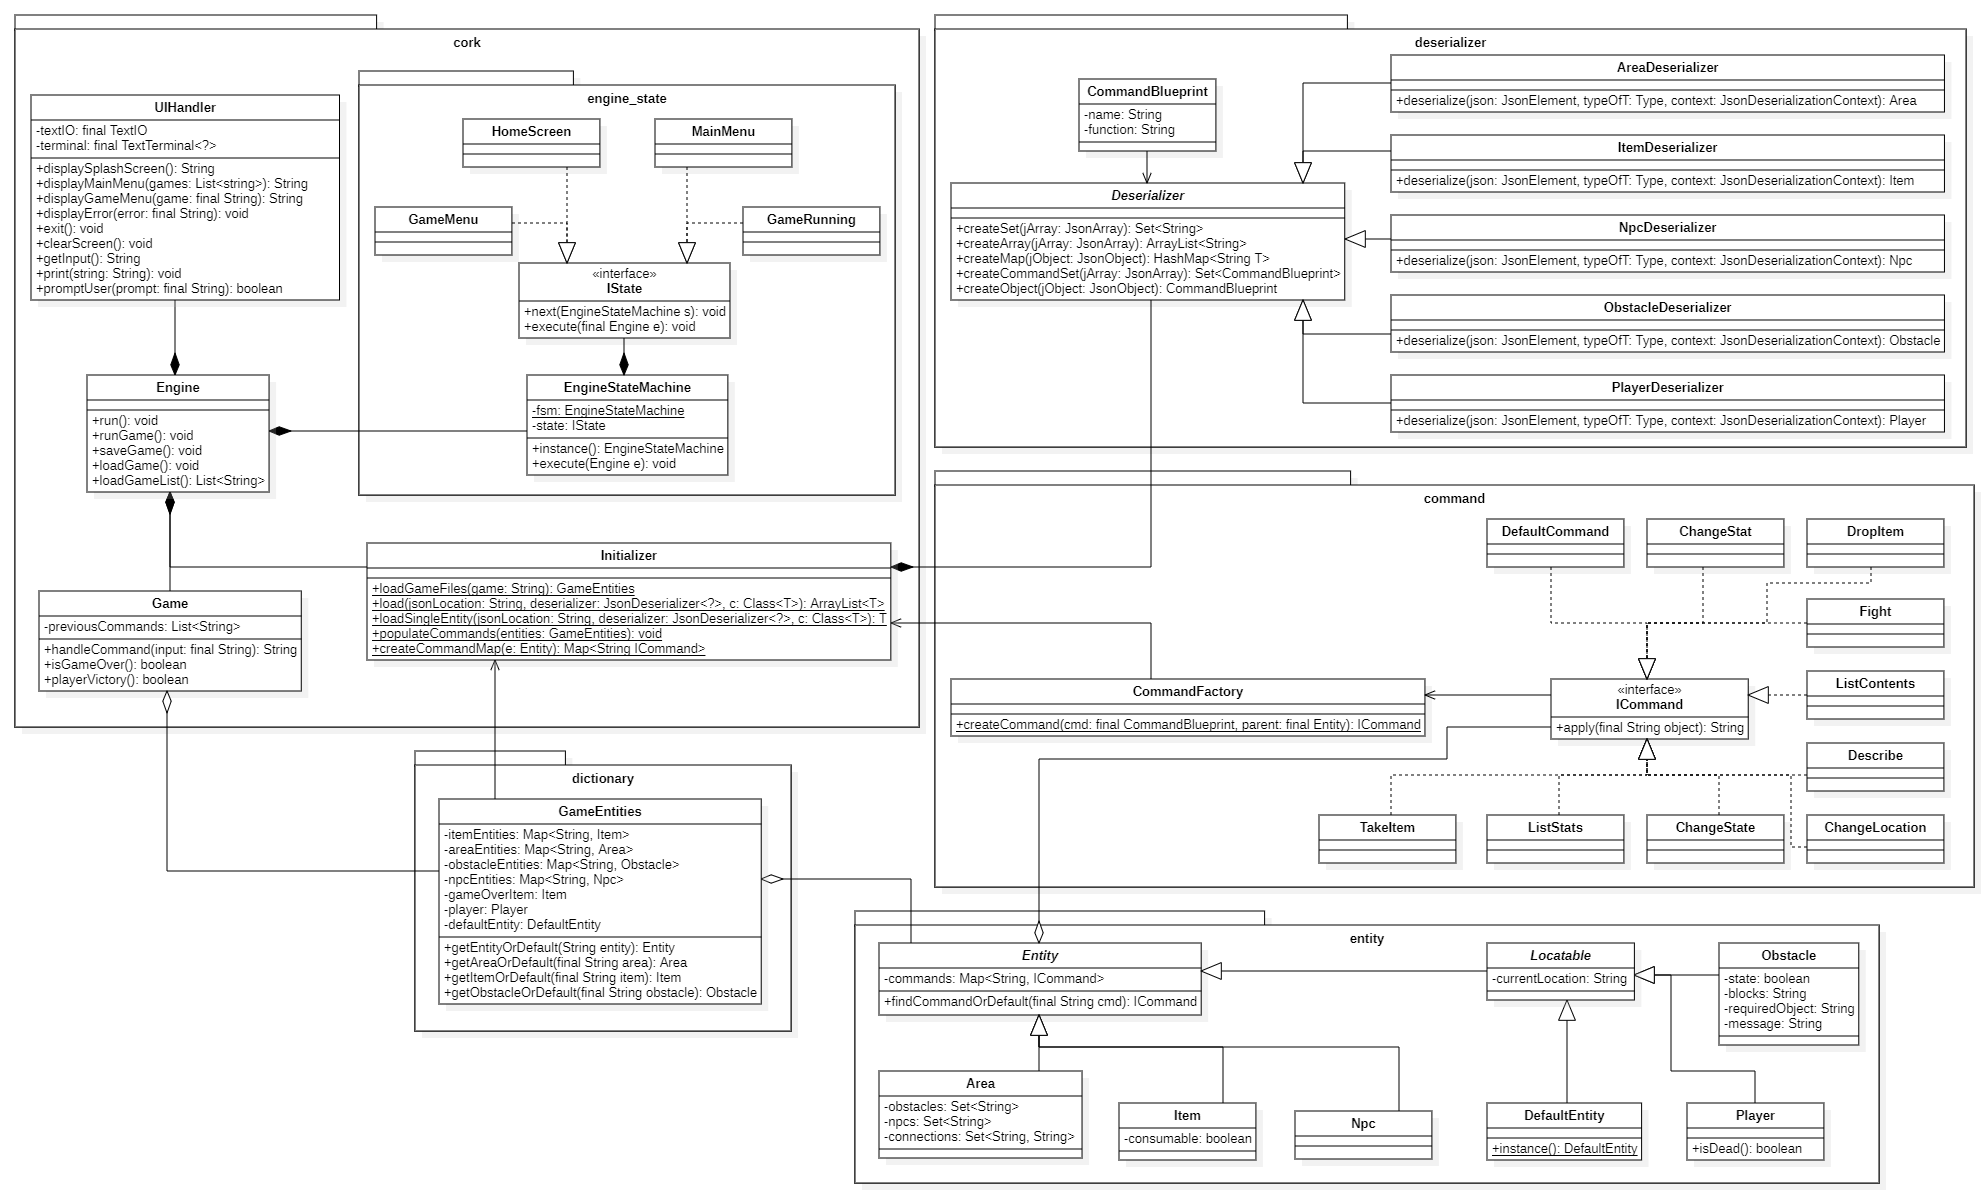
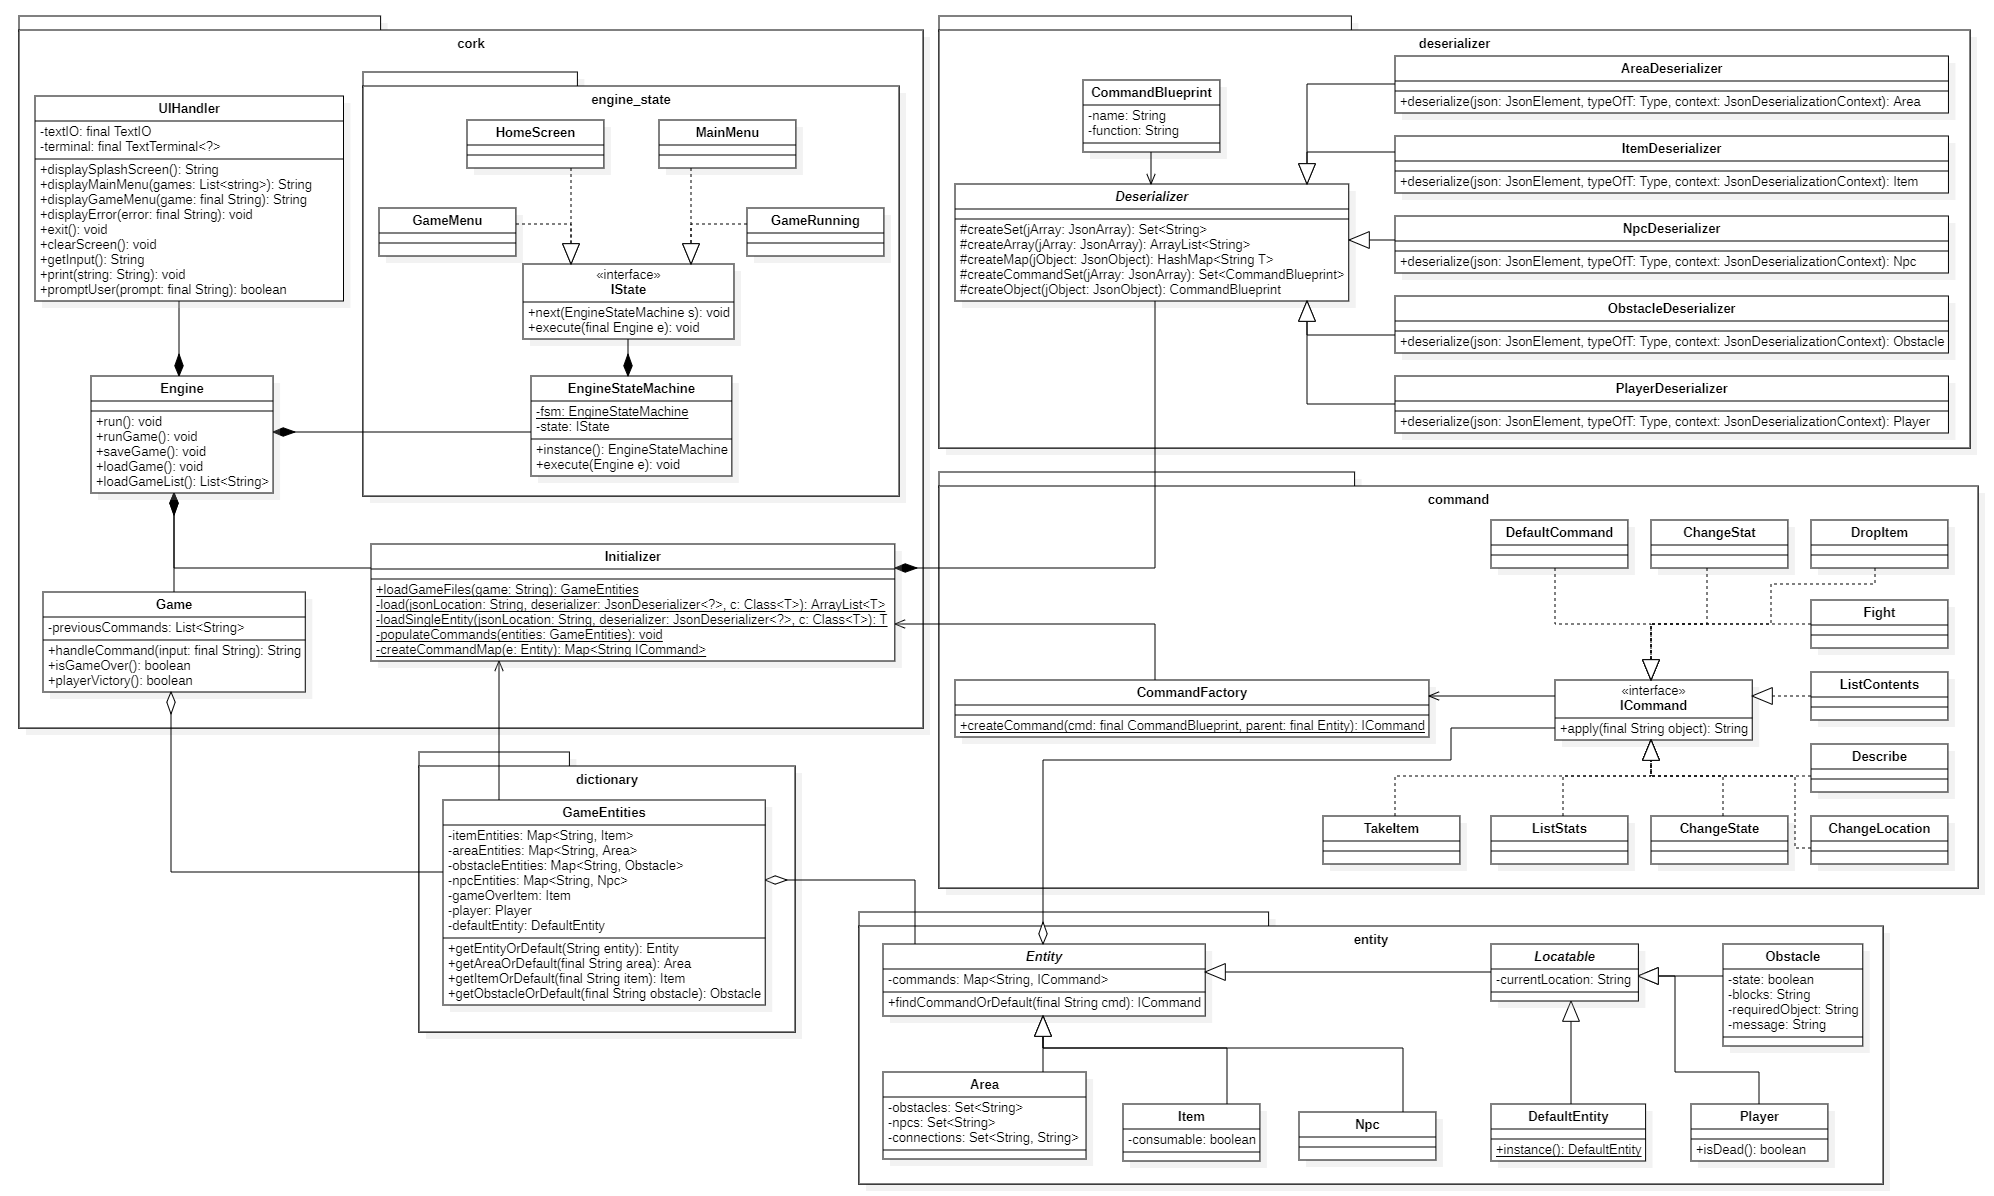
Add CommandBlueprint section

diff --git a/docs/assignment3.md b/docs/assignment3.md
@@ -380,11 +380,13 @@ An abstract class that provides a base set of shared methods for the various des
 
 ### CommandBlueprint
 
+An intermediary object used by the deserializers that allows **ICommand** objects to be easily described in the JSON as **CommandBlueprint** objects which are then converted into the correct command when needed.
+
 ##### Attributes
 
-##### Operations
+- *name: String* - The name that the user must type to activate this command.
 
-##### Associations
+- *function: String* - The name of the command class to create.
 
 
 ### AreaDeserializer
